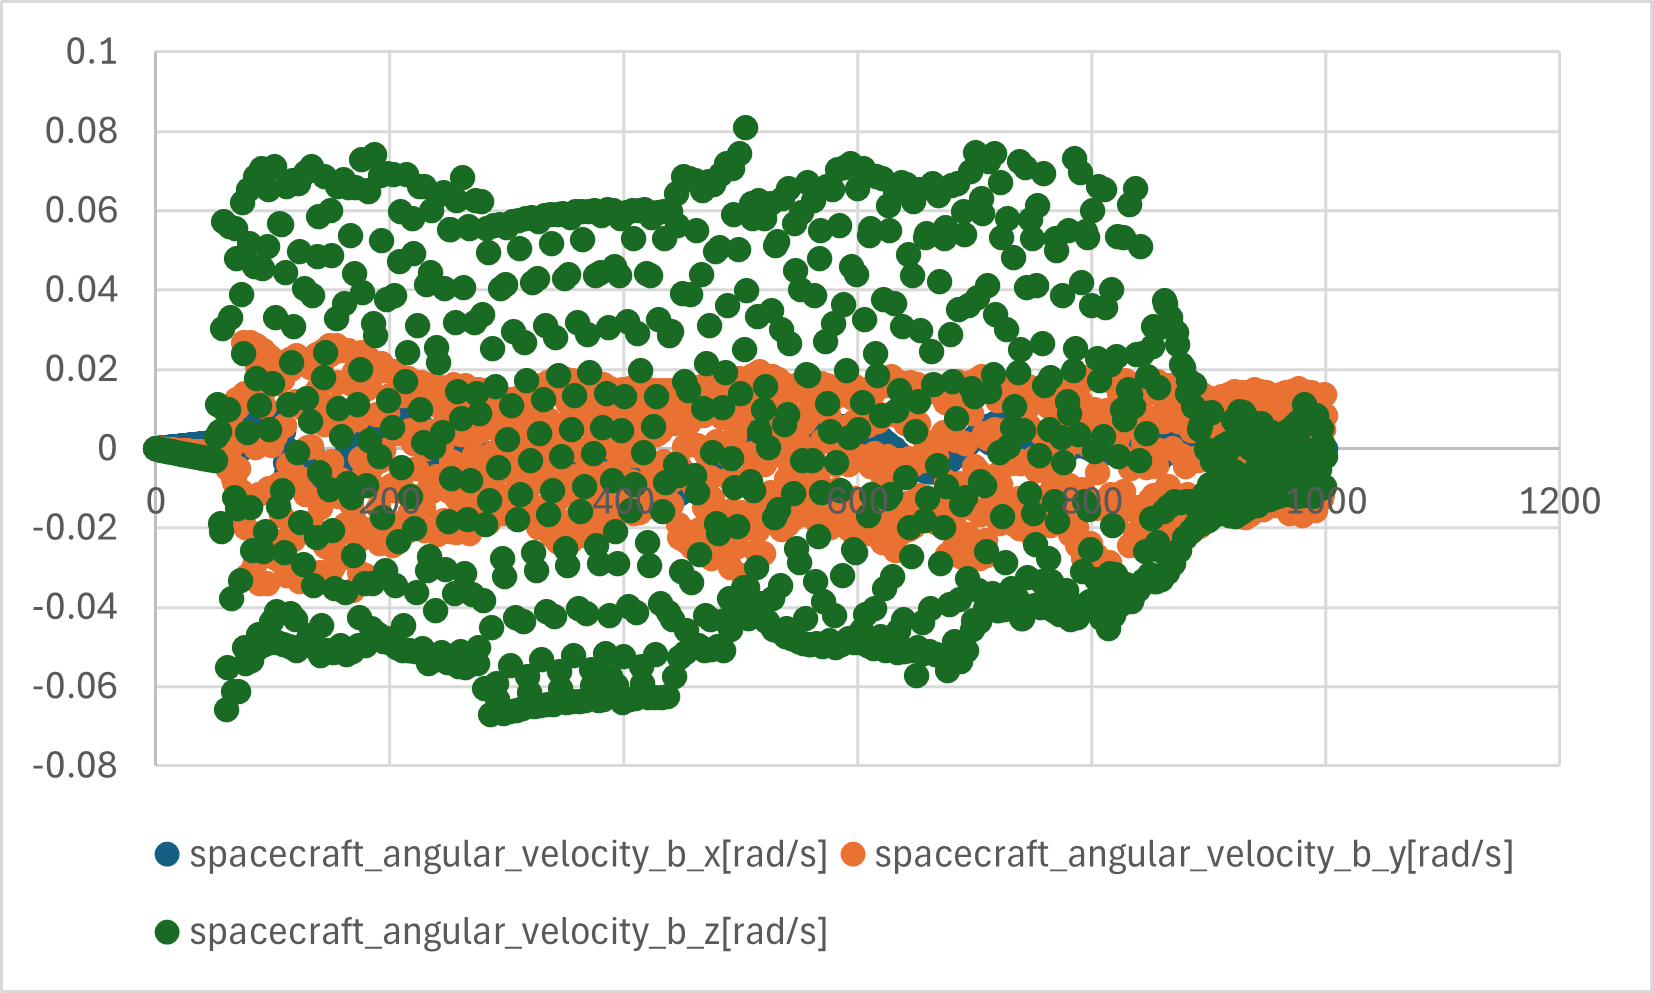
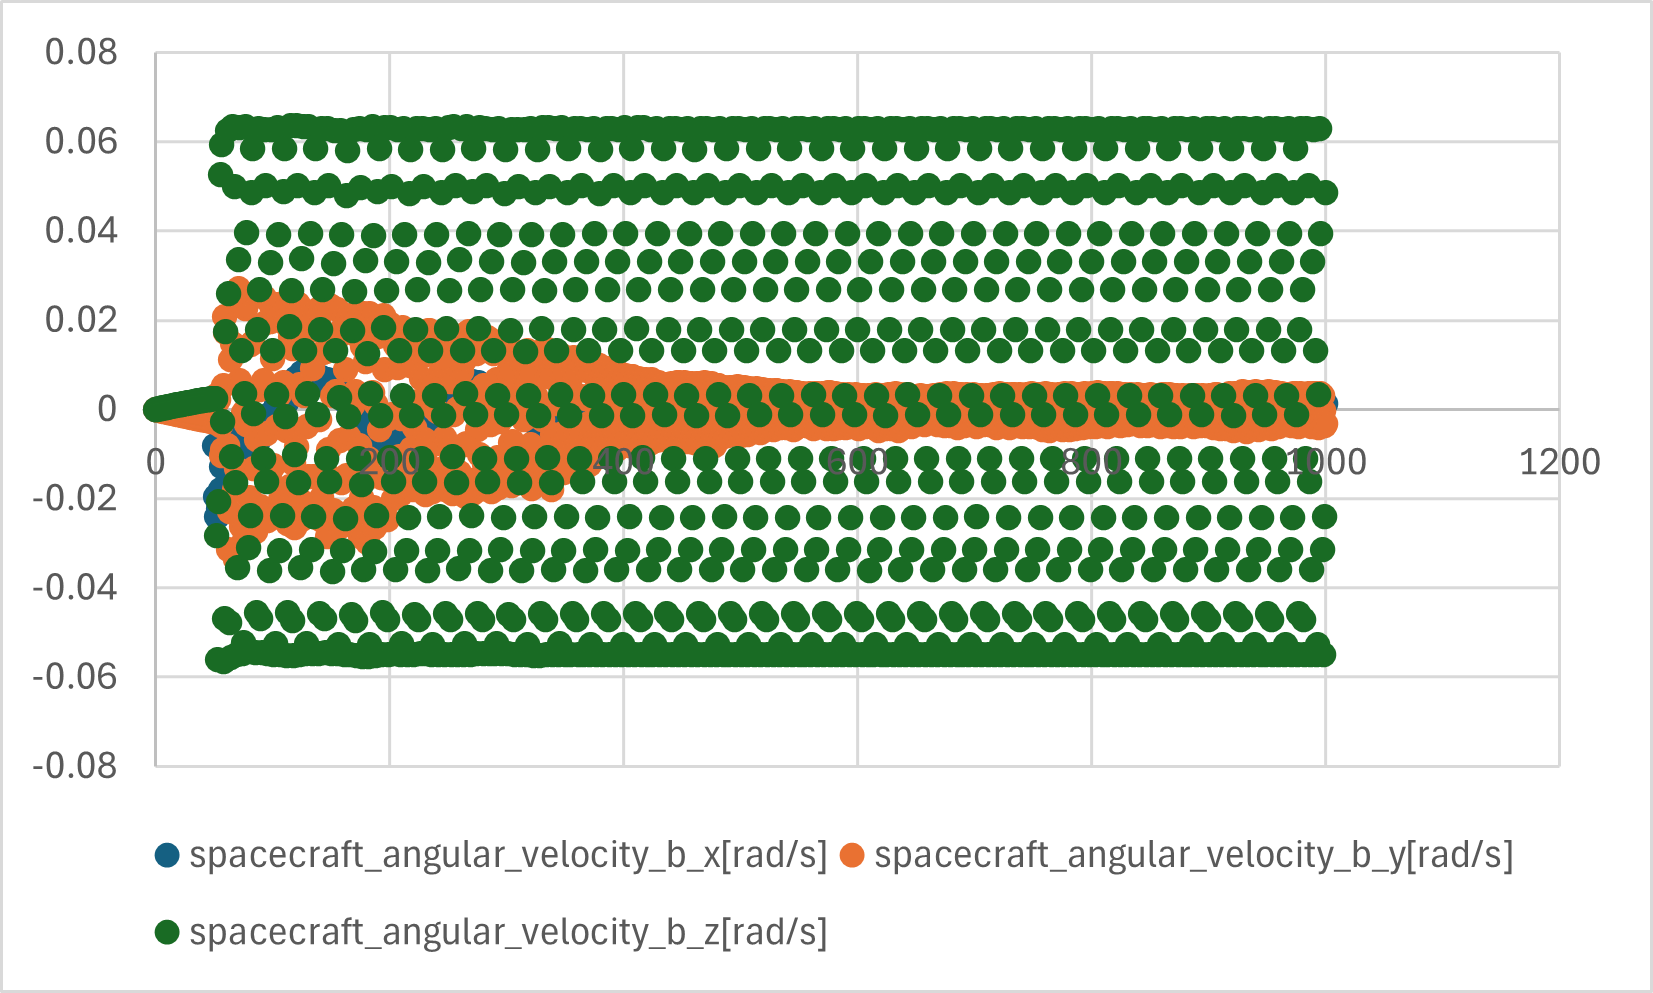
FINE_THREE_AXIS : fix

diff --git a/README.md b/README.md
@@ -23,6 +23,6 @@ git branch FINE_THREE_AXIS
 シミュレーションの初期状態などはコードを参照のこと。
 
 シミュレーションを実行結果を以下に示す。
-収束していない…（要修正）
+収束していない&バイアス残ってる（要修正）
 ![result(angular_velocity)](result(angular_velocity).png)
 ![result(quaternion_i2b)](result(quaternion_i2b).png)
